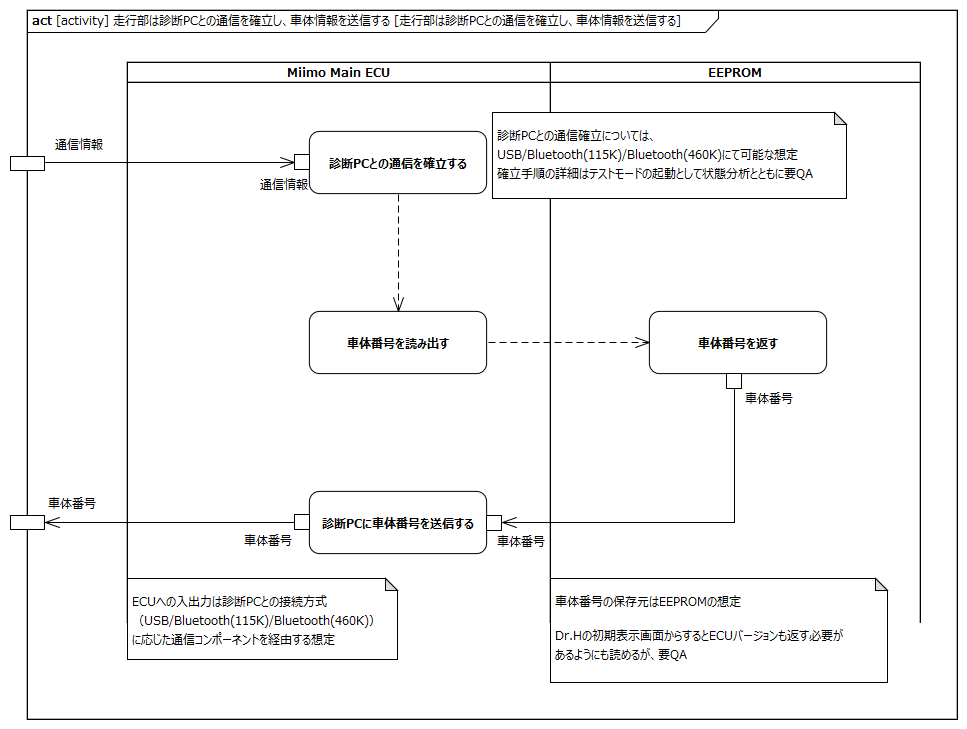
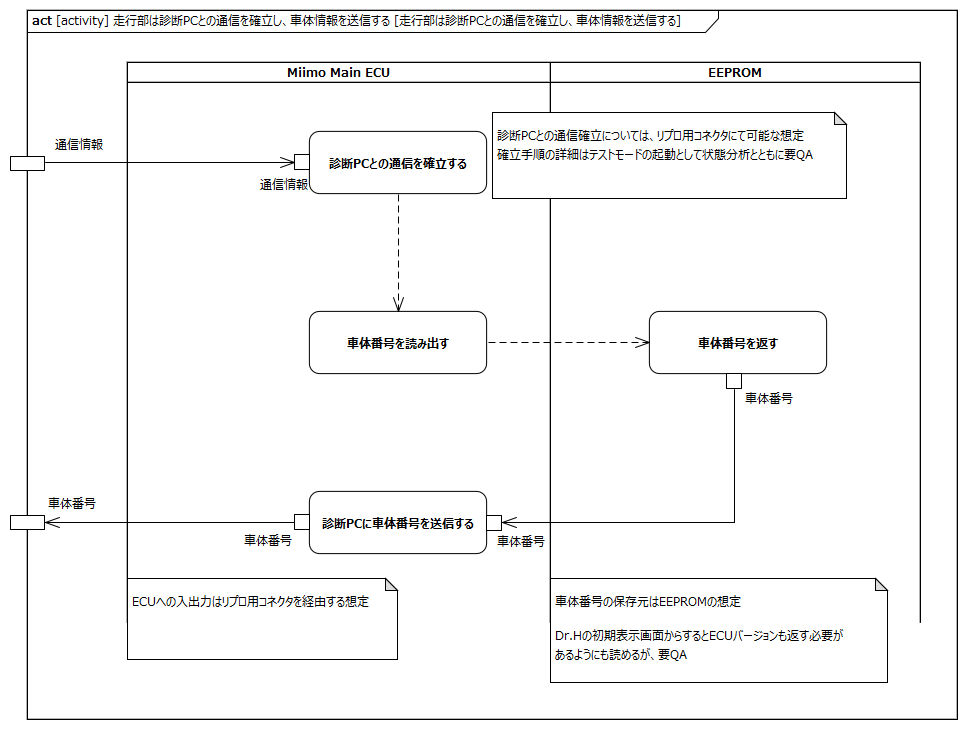
USDMでの修正に対応した修正 （通信はリプロ用コネクタを想定しているようにメモ/備考を修正）

Changed region(s): [[0.4964, 0.1811, 0.8376, 0.2414], [0.1241, 0.8148, 0.4033, 0.9053]]

diff --git a/requirements/diagnosis.md b/requirements/diagnosis.md
@@ -94,7 +94,7 @@ avatarin側の責務のため、対象外とする。
 |Miimo Main ECUはEEPROMに車体番号の読み出しを依頼する||
 |Miimo Main ECUはEEPROMから受けた車体番号を診断PCに送信する|※1|
 |EEPROMはMiimo Main ECUの依頼を受けて車体番号を返す|※3|
-※1:診断PCとの通信はUSB/Bluetooth(115K)/Bluetooth(460K)に応じた通信コンポーネントを経由する想定
+※1:診断PCとの通信はリプロ用コネクタを経由する想定
 ※2:テストモードの起動/通信確立手順の詳細は状態分析とともに要QA
 ※3:車体番号の保存先をEEPROMと想定
 
